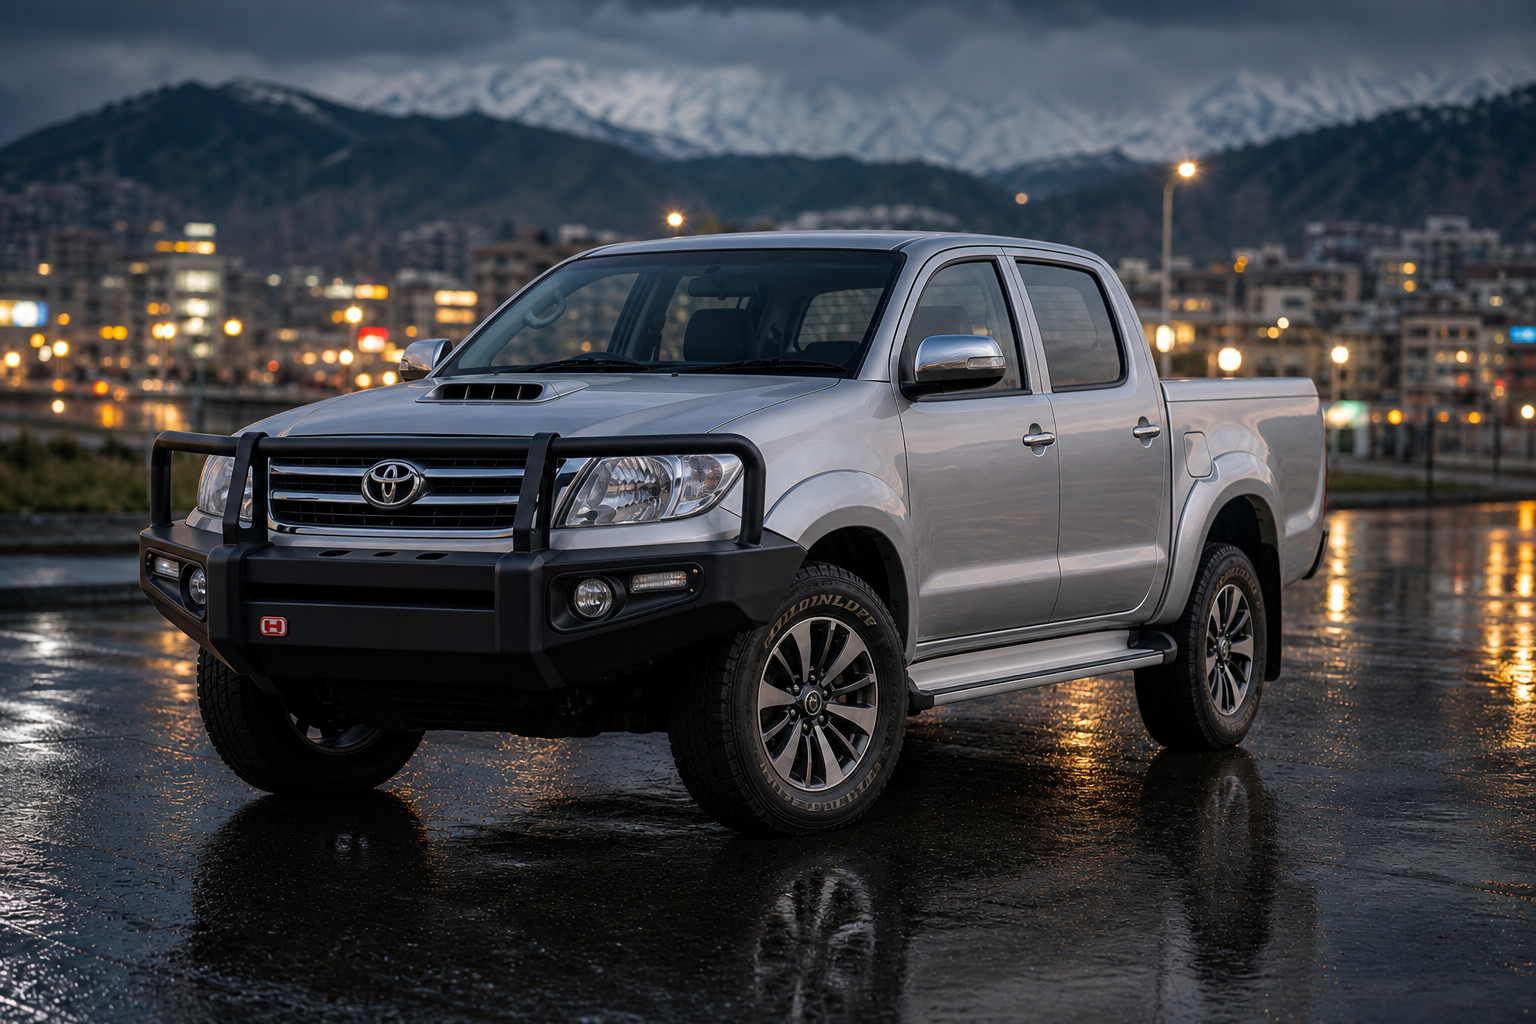
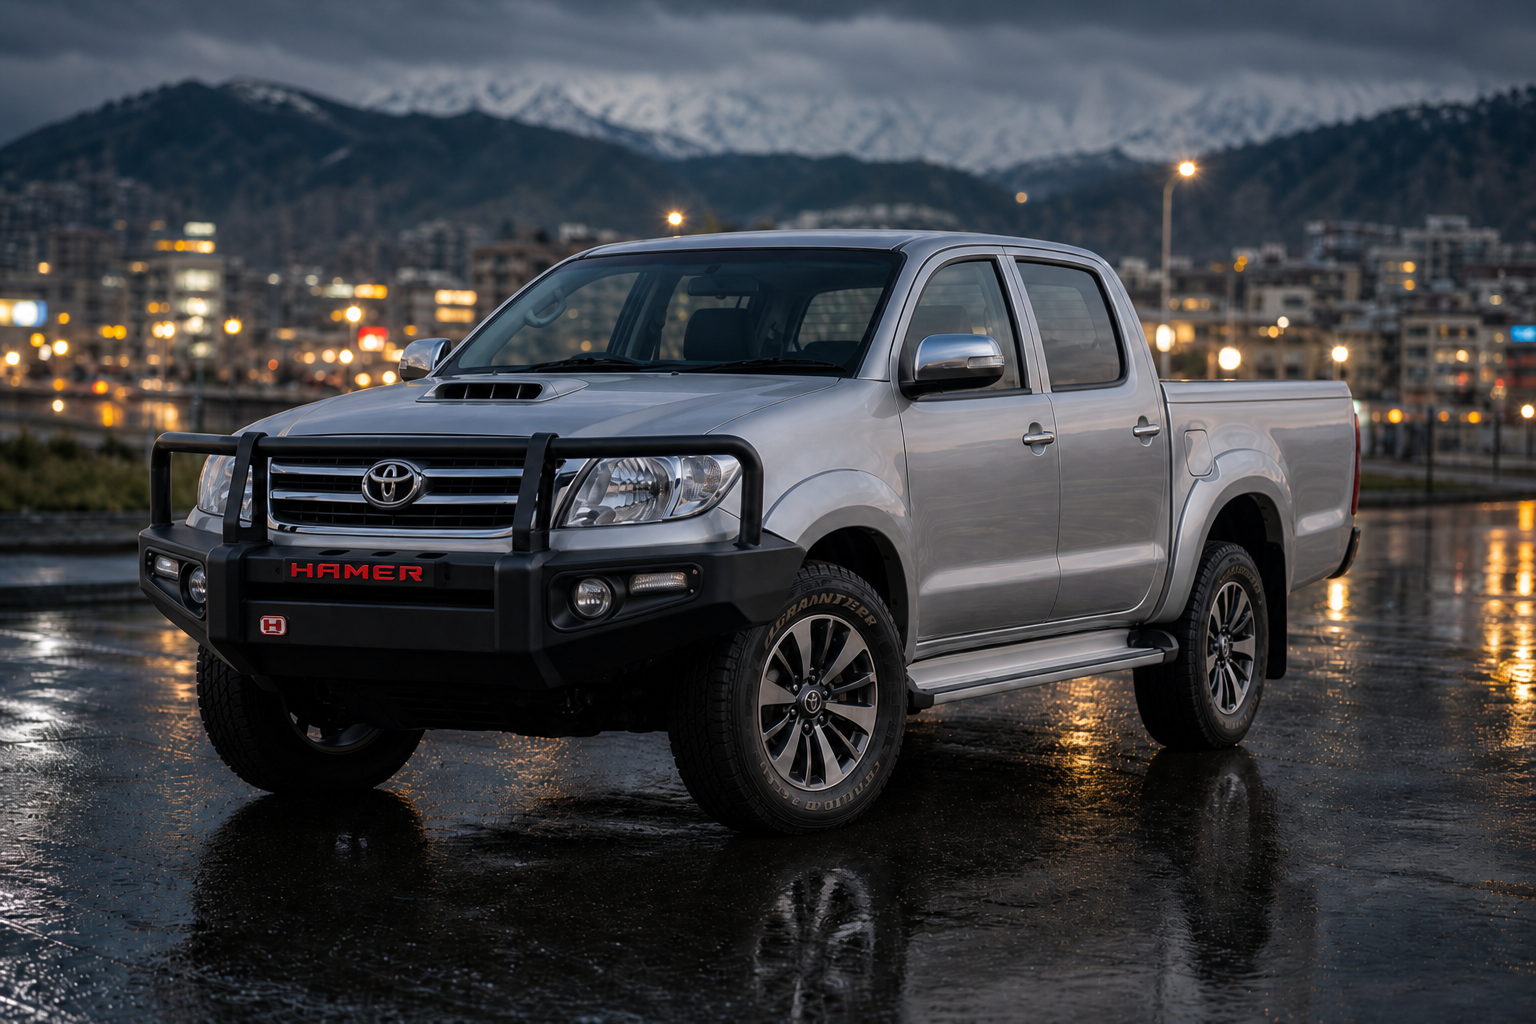
Regenerate Hilux AI photos with HAMER bumper text and empty dala.

diff --git a/src/lib/data.ts b/src/lib/data.ts
@@ -92,7 +92,7 @@ export const defaultVehicles: Vehicle[] = [
     ],
     available: true,
     description:
-      "2009 silver Toyota Hilux Vigo — freshly upgraded with Hamer heavy-duty front bull bar and matching Hamer rear bumper, plus sports bar / roll cage, TRD Sportivo styling, side steps, and alloy wheels. Ready for hills, cargo, and tough roads.",
+      "2009 silver Toyota Hilux Vigo — upgraded with Hamer heavy-duty front bull bar (HAMER branding) and matching Hamer rear bumper, open empty dala for cargo, side steps, and alloy wheels. Ready for hills, load work, and tough roads.",
   },
   {
     id: "v7",
